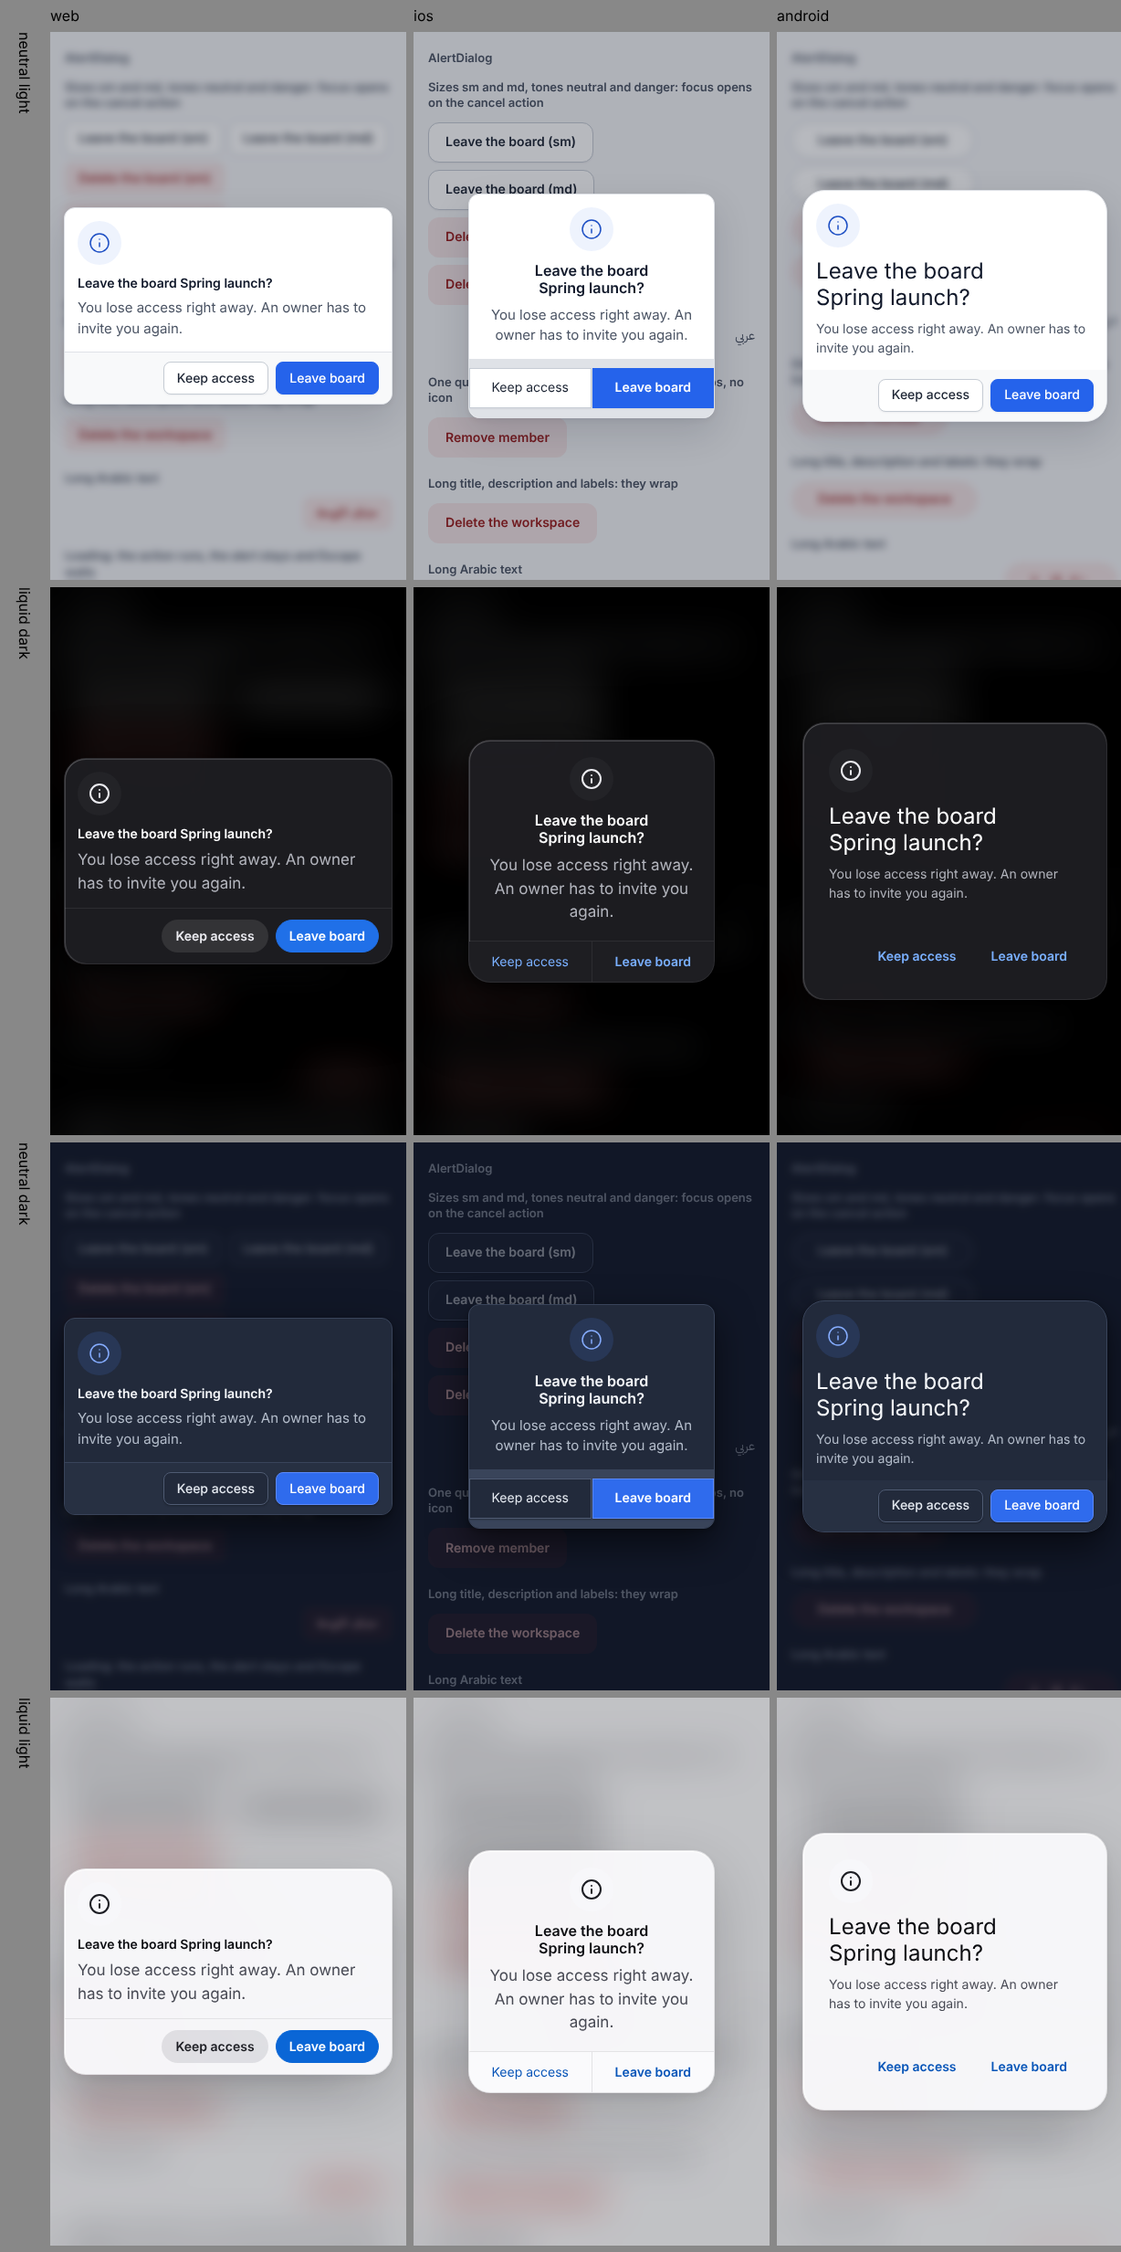
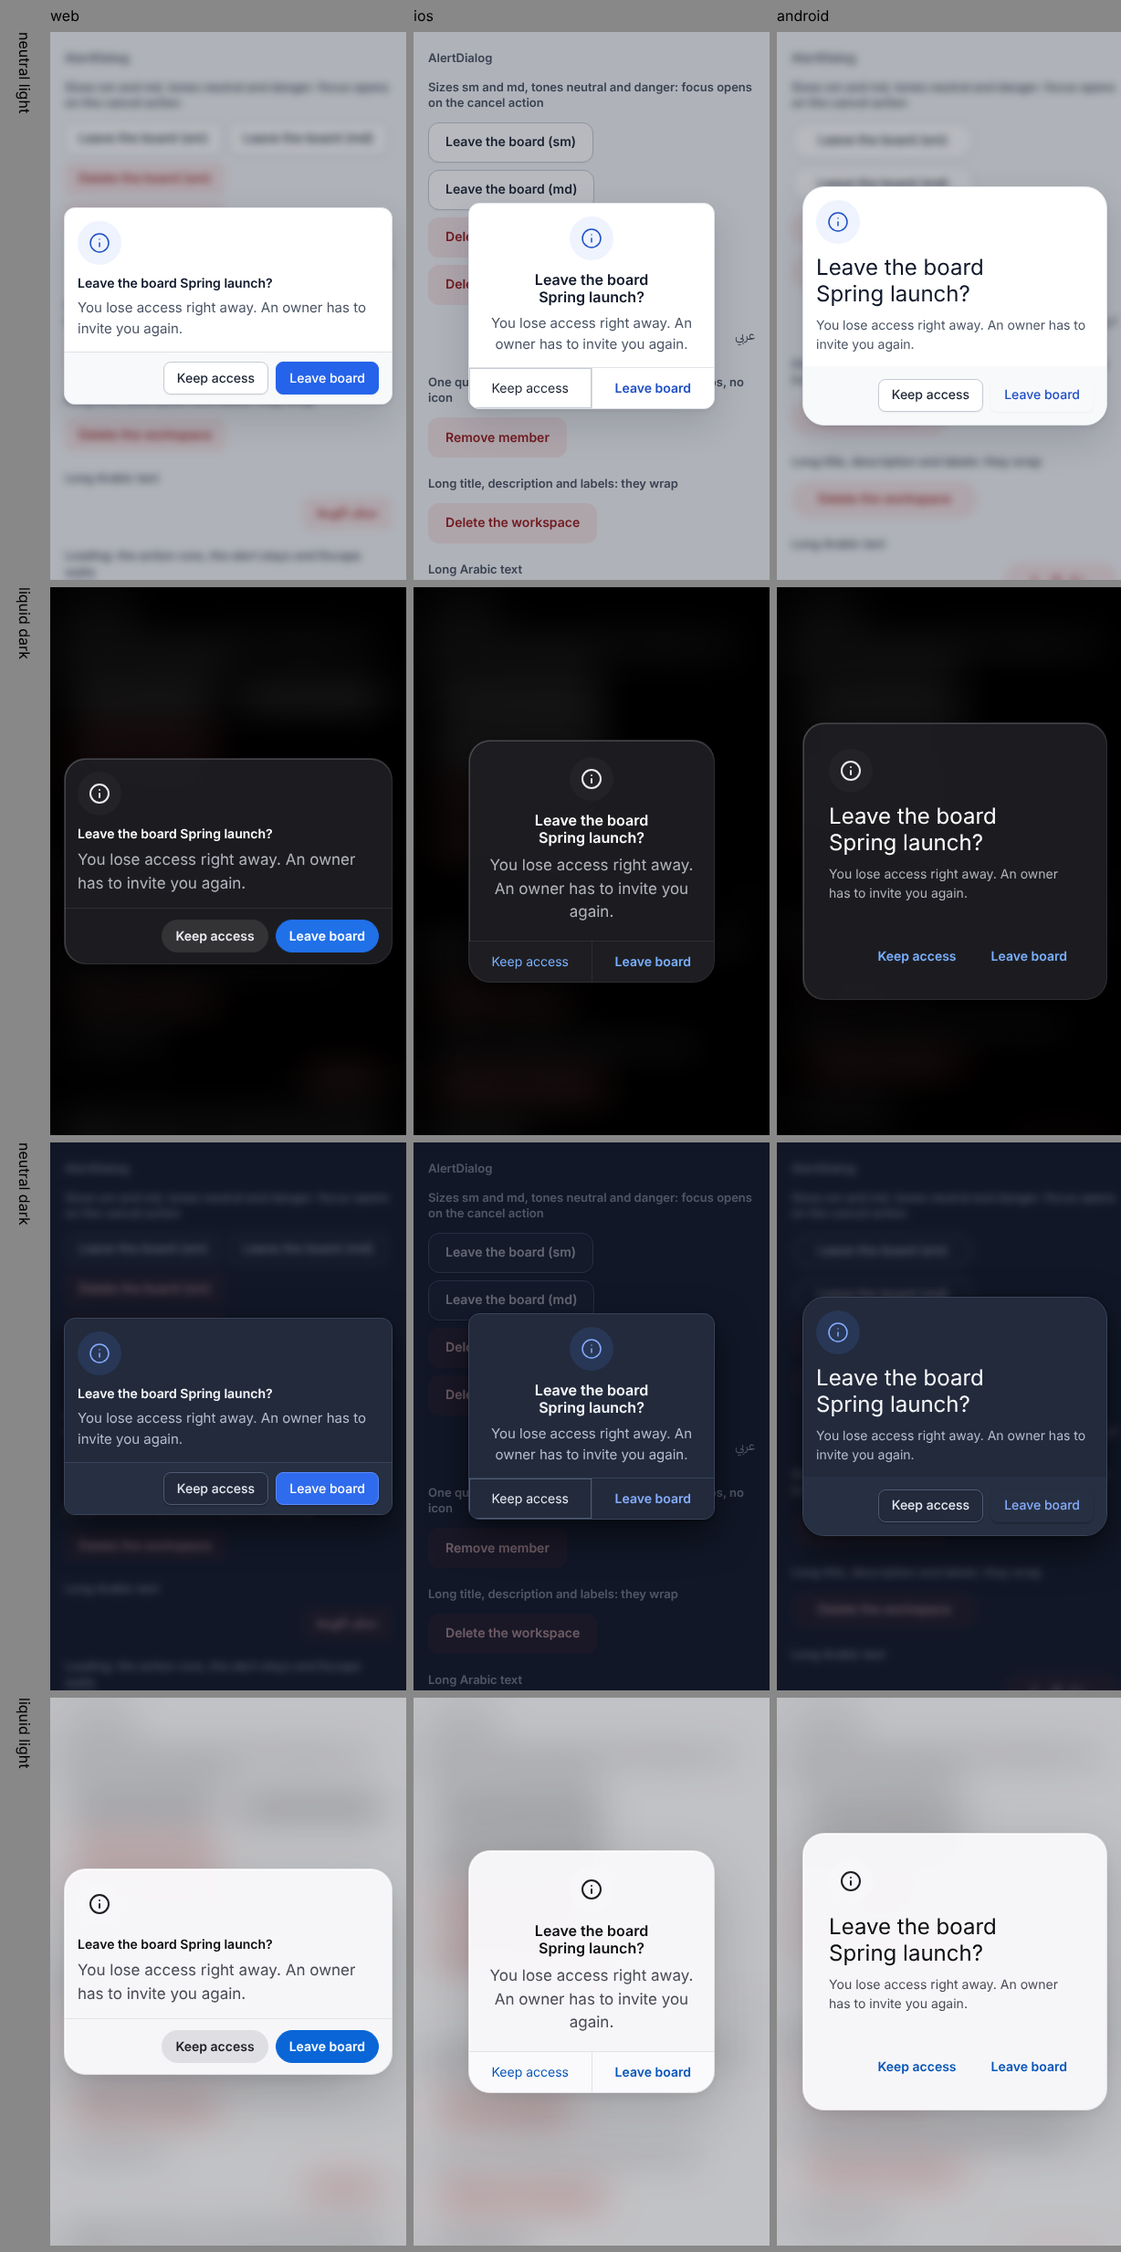
wo-1.28: hook wiring report and refreshed dialog sheets
Claude-Session: https://claude.ai/code/session_01ErLBsZAvcFqWeBUty3dBLn

diff --git a/docs/reports/hook-wiring.md b/docs/reports/hook-wiring.md
@@ -1,0 +1,252 @@
+# Hook wiring and looks apart (order 1.28)
+
+Status: **proposed**. Every look, motion and platform change below waits for
+the owner. Branch `claude/ds-order-1-28`, from `claude/relaxed-hypatia-7gseap`
+with the round 3 report merged.
+
+Order 1.23 added private properties and parts ("hooks") to the components
+while 1.24, 1.25 and 1.26 built the styles and platforms in parallel, so none
+of them could set those hooks. This order sets them in Studio, Desk, Neutral,
+Liquid, `ios` and `android`, removes the workarounds they replace, and pushes
+the four styles further apart. There is no Paper folder, so the sheets show
+four styles.
+
+## Verdict from the sheets
+
+- **Styles.** Shown one switch, one check, one toast or one dialog with no
+  label, each style can be named:
+  - Studio is flat black and white with square bits, inverted fills and 1px
+    rules.
+  - Desk is yellow, with glass balls, window lights and grain.
+  - Neutral is calm blue on a blue gray dark, with soft white cards.
+  - Liquid is glass: pure black dark, pill buttons, a longer capsule, a lens
+    thumb and a heavy frosted scrim.
+- **Motion.** The same press differs in kind, not only in length:
+  - Studio cuts in hard steps.
+  - Desk rolls a glass ball that turns into a lens and overshoots.
+  - Neutral moves quick and plain, critically damped.
+  - Liquid swells and stretches a clear lens on a soft spring.
+
+  See `sheets/switch-stretch.<style>.png`.
+- **Platforms.**
+  - `ios` has a centred compact alert with hairline split text actions, a
+    toast banner from the top, round checks, a dim on press and a lens while
+    the switch is held.
+  - `android` has a large start aligned title, text actions at the end, a
+    small switch dot that grows, ripples from the touch point, and full width
+    snackbars at the bottom.
+  - Neutral's `web` keeps its button footer and corner toast stack.
+- **Weakest pair.** Neutral and Liquid at rest in light: both have a blue
+  accent and a white thumb. The longer Liquid capsule, its pill buttons and
+  its glass scrim tell them apart; the press tells them apart at once. A
+  capsule shaped thumb would close it (see hooks still needed).
+
+## Hooks set
+
+| Area | Hooks set |
+| --- | --- |
+| Studio | Switch: `--_switch-sweep: 0`, `-lean: 0px`, `-thumb-shadow`, `-thumb-backdrop: none`, `-thumb-highlight: none`, `-track-press: 1`, `-border-color-hover`, `-thumb-off`; `-thumb-size-pressed` and `-stretch` on web. Checkbox: `-radius: 0`, `-stroke-width: 3`, step eases on `-ease`, `-fill-ease`, `-morph-ease`, `-land-ease`. RadioGroup: `-dot-travel: 0px`, step eases. RadioCard: `-radius: 0`, `-stroke-width: 3`, `-lift-ease`, `-draw-ease`. Buttons: `--_button-glow: 0`, `-glow-rest: 0`, `-press-shade: transparent`, `-press-y: 1px`, step `-press-ease`, `-release-ease`, `-result-ease`, `-draw-ease`; `--_toggle-button-flood: 0`. CopyButton: step `-ease-in`, `-ease-out`, `-pop-ease`, `-overshoot: 0px`, the bubble as an inverted chip. Toast: `--_toaster-gap: 1px`, `--_toast-peek`, `-depth: 0`, `-shadow-room: 0px`, `-stack-ease`, `-swipe-ease-out`, `-progress-thickness: 1px` (web). Dialog family: `--_dialog-backdrop-blur: 0px`, `-refuse-shift: 2px`, `-part-ease`. |
+| Desk | Switch: `--_switch-thumb-highlight` (a light spot that turns with the travel, mirrored in RTL), `-highlight-opacity`, `-highlight-opacity-pressed`, `-thumb-shadow` (light rim), `-thumb-backdrop`, `-thumb-solid-pressed: 0.45`, `-lean`, `-track-press`. Checkbox: `-stroke-width: 2.5`, bouncy `-fill-ease`, `-morph-ease`, `-land-ease`. RadioGroup and RadioCard: yellow fill, `-dot-travel`, `-draw-ease`. Buttons: `--_button-glow`, `-glow-rest`, `-glow-color`, `-glow-y`, `-press-y`, `-press-shade`, bouncy `-release-ease` and `-release-duration`; the rolled label keeps the press sink. CopyButton: `-turn`, `-overshoot`, yellow `-bubble-*`. Toast: `--_toaster-gap`, `--_toast-peek`, `-depth`, `-stack-duration`, `-stack-ease`, `-progress` (yellow), `-progress-thickness` (web). Dialog family: `--_dialog-backdrop-blur`, `-part-duration`, `-part-ease`, `-handle-color`. Menus, Select, ListBox, CommandPalette: highlight bg, `-item-shadow` (yellow start bar), `-highlight-duration`, `-highlight-ease`. |
+| Neutral | Switch: `--_switch-bg`, `-thumb-off`, `-on-fill`, `-thumb-shadow`, snappy (critically damped) `-duration`, `-ease`, `-duration-out`, `-ease-out`, `-track-press: 1`, `-lean: 0px`; `-stretch` and `-thumb-size-pressed` on web. Checkbox: `-stroke-width: 1.5`, ease out on fill, land and morph. RadioGroup: `-dot-travel: 0px`. RadioCard: `-lift: 0px`, `-stroke-width: 1.5`. Buttons: `--_button-glow: 0`, `-press-y: 1px`, `-press-shade: transparent`, snappy release, `-roll: 0px`; `--_toggle-button-flood: 0`; `--_split-button-drop-press`. CopyButton: a cross fade with the check drawn on ease out, `-overshoot: 0px`. Toast: `--_toast-peek`, `-depth`, `-progress`, `-progress-thickness` (web), `--_toaster-gap`. Dialog family: `--_dialog-refuse-shift`, `--_dialog-backdrop-blur` from `blur.backdrop`. Menus and lists: highlight in `primary.tint`. Popover and HoverCard: `-enter-stretch` equal to `-enter-scale`. |
+| Liquid | Buttons: `--_button-glow: 1`, `-glow-rest`, `-glow-color: var(--ds-color-glass-highlight)`, `-glow-x` (22%, 78% in RTL), `-glow-y`, soft `-release-ease`. Switch: `--_switch-thumb-shadow`, `-thumb-backdrop`, `-thumb-highlight` (the `thumb-lens` part, mirrored in RTL), `-thumb-highlight-opacity` (0.6 at rest, 1 held), `-thumb-solid-pressed: 0.2`, `-lean`, soft spring eases; on web `-thumb-size-pressed`, `-stretch` and a longer `--_switch-width`. Slider: `--_slider-thumb-bg`, `-halo`, `-halo-spread`, `-stretch`. SegmentedControl: `--_segmented-control-indicator-filter`. Toast: `--_toaster-gap`, `--_toast-peek`, `-depth`, soft `-stack-duration`, `-stack-ease`, `-duration-in`, `-ease-in`. Checkbox and RadioGroup: soft spring eases, `-stroke-width: 2.5`. Menus, Select, ListBox, CommandPalette: `-highlight-bg`, `-item-shadow`, `-highlight-ease`. Dialog family: `--_dialog-backdrop-blur` (blur.glass), `--_dialog-handle-radius`. Popover, HoverCard, Tooltip: `-enter-stretch`. |
+| ios | Buttons: `--_button-press-y: 0px`, `-press-shade: transparent`, `-glow: 0`; press is a dim. Switch: `--_switch-thumb-shadow`, `-thumb-size-pressed: 1`, `-thumb-solid-pressed: 0.2`, `-thumb-backdrop`, `-thumb-highlight`, `-highlight-opacity` and its pressed value, `-lean: 0px`. Checkbox: pill radius everywhere, `-stroke-width: 2.5`, spring eases. RadioGroup: `-dot-travel: 0px`, spring eases. Toaster: `--_toaster-dir: 1`, `--_toaster-align: start`. Toast: `-peek`, bouncy `-stack-duration` and `-stack-ease`, `-progress-thickness: 0px`. Dialog and AlertDialog: `-enter-scale`, `-duration-in`, `-ease-in`. Sheet: `--_dialog-handle-color`, `-handle-radius`. Family: `--_dialog-backdrop-blur: 0px`. Menus and Select: `--_menu-clip-from`, quiet highlight, tinted check. Popover and Tooltip: `-enter-stretch`. SegmentedControl: `-indicator-filter`. |
+| android | Buttons and FAB: `--_button-glow: 0`, `-glow-rest: 0`, `-press-shade: transparent`, `-press-y: 0px`; the ripple is a `clip-path` circle at `var(--_button-ripple-x) var(--_button-ripple-y)`, mirrored in RTL. ToggleButton: `-layer-opacity: 0`, `-flood: 0`. Chip, List, Pagination: ripples from their `-press-x` and `-press-y`. Switch: `-thumb-size-rest: calc(16 / 28)`, `-on: calc(24 / 28)`, `-pressed: 1`, `-stretch: 1`, `-lean: 0px`, `-inset`, `-thumb-size`, `-travel-max`, `-thumb-icon-opacity: 1`, emphasized eases. Checkbox and RadioGroup: `-press-scale: 1`, emphasized eases, a 40dp state layer. Field: `--_field-float-box`, `-float-inset`; Input `data-variant='outlined'`. Toaster and Toast: `--_toaster-dir: -1`, `-align: end`, `-gap`, `--_toast-stack-transform`, `-strip`, `-stack-ease`, `-swipe-ease-out`, `-progress-thickness: 0px`. Menus, Select, ListBox, CommandPalette: `primary-tint` highlight on the standard ease. Sheet: `--_dialog-handle-radius`. |
+
+### Platform shape against style recipes
+
+The platforms sit in `ds.platform`, below `ds.recipes`, so a recipe that sets
+a shape hook beats the platform. The fix in this order: the style recipes set
+these only under `[data-style='<id>'][data-platform='web']`:
+- the switch press shape (`--_switch-stretch`, `--_switch-thumb-size-pressed`,
+  Liquid's `--_switch-width`)
+- the toast timer line (`--_toast-progress-thickness`)
+- the dialog footer and its buttons
+
+The platform's switch press, timer line and alert actions now hold in every
+style. A secondary footer button keeps its own border on ios and android,
+because that comes from the Button's emphasis, not the dialog.
+
+## Workarounds removed
+
+- Liquid Button: its own `::before` specular sheen block, replaced by the
+  glow hook.
+- Liquid Switch: the direct thumb `box-shadow`, the `backdrop-filter` and the
+  `:active` `--_switch-thumb-bg` swap.
+- Liquid Slider: the direct thumb background and the redone forced colors
+  thumb rules.
+- Liquid SegmentedControl: the direct `backdrop-filter`.
+- Liquid Toast: the direct `gap` and the forced drop from above.
+- Liquid menus, Select, ListBox and CommandPalette: the row `::after`
+  box-shadow, the row lift transforms and their transitions; three direct
+  `--_menu-duration-in` lines.
+- Desk Toast: the toaster's `gap: 0` and the negative margins.
+- Desk Dialog: the direct `--_dialog-scrim-filter` and the scrim override.
+- Neutral Dialog and CommandPalette: the `scrim-filter: none` lines.
+- Studio Toast: the raw toaster gap. Studio Button: the xs pill rule.
+- `ios.css`:
+  - the `ds-ios-alert-in` keyframes
+  - the `::before` grabber on the Sheet handle
+  - the toast `--_toast-enter-y` and the sheet open `:has()` rule
+  - the direct thumb shadow
+- `android.css`:
+  - the switch thumb `transform` scale trick, `--_switch-stretch-now` and
+    `padding-inline: 0`
+  - the handle `::before` bar
+  - the ripple grown by `transform: scale`
+- **Durations (round 3 item 11).**
+  - No raw or computed duration is left in any style folder or platform
+    file.
+  - Found and fixed: two in `ios.css` (computed button transitions) and
+    three in `android.css` (`0s` transitions, now token durations with
+    `step-end` or `step-start`).
+- **Generated interaction recipes (item 10).**
+  - `packages/styles/motion-css.ts` writes `<id>/recipes/Motion.css` from
+    each `motion.ts`, and a test fails when one is stale.
+  - The file is in `recipes/` and not at `<id>/motion.css`, because the
+    vocabulary gate allows private properties only in component CSS and
+    recipes.
+  - The generated `index.css` imports every recipe, so
+    `scripts/gen-index.ts` needed no change.
+- **`window-settle` (item 12).**
+  - Studio windows now grow, zoom and minimize. The pattern rows name the
+    stepped `ease.spring-bouncy`, but `animateWindow` ignores a preset's
+    easing, so today they move on the smooth `ease.window` curve (see
+    changes needed from the lead).
+  - Neutral windows settle with a small scale.
+
+## Look changes (Task 2)
+
+- **Studio.**
+  - Colours: dark is near black surfaces with bright rules; light is a white
+    body with dark rules.
+  - Shape: panels and overlays are square; controls are 2px.
+  - Overlays: every overlay is framed by a 1px rule in the text colour, and
+    dialog actions are square cells split by rules, the main one inverted.
+  - Switch: a flat bit with an inverted fill.
+  - Checkbox and radio: square, with thick square checks.
+  - Press: the neutral button inverts and the primary turns into its own
+    outline.
+  - Toasts: stack as hard rules.
+- **Desk.**
+  - Switch: a glass ball thumb on the yellow track; it turns into a clear lens
+    when held.
+  - Overlays: yellow glass title bars on dialogs and the AlertDialog band, a
+    yellow top edge on popovers, and a yellow glass marker on menu rows.
+  - Toasts: overlapping glass cards with a yellow timer.
+- **Neutral.**
+  - Dark: a true blue gray (page #1b2232, surfaces #222a3b to #455168,
+    borders #2a3345 to #4f5b73), with a navy scrim and a 4px backdrop blur.
+  - Contrast fixes this needed: a lighter primary edge (#5b89f9), focus ring
+    #82abff and danger text #fc8b8b.
+  - Toasts: white cards with a tinted icon disc and a thin timer.
+- **Liquid.**
+  - Switch: a clear lens that swells and stretches; a longer capsule on the
+    web, and a standing sheen at rest.
+  - Lists and stacks: a lens that glides between menu rows, and toasts that
+    pool into one stack.
+  - Overlays: a 20px frosted scrim, and popovers that unfold from the trigger.
+
+## Sheets and clips
+
+All under `docs/reports/shots/hook-wiring/`:
+
+| What | Before | After |
+| --- | --- | --- |
+| Styles in a row (dark and light), per component | `sheets/before/<component>.styles.png` | `sheets/after/<component>.styles.png` |
+| web, ios and android in a row (Neutral and Liquid, both schemes), per component | `sheets/before/<component>.platforms.png` | `sheets/after/<component>.platforms.png` |
+| Motion frames per style | | `sheets/switch-stretch.<style>.png`, `sheets/check-draw.<style>.png`, `sheets/copy-swap.<style>.png` |
+| Clips per style | | `clips/toggles.<style>.webm` (switch and check), `clips/actions.<style>.webm` (copy) |
+
+- **Components:** switch, checkbox, radio-group, button, copy-button, toast,
+  dialog, alert-dialog, sheet, select (open), dropdown-menu (open), tabs,
+  segmented-control.
+- **How the before set was taken:** from a clean worktree of the pre-order
+  code on its own server, so no work in progress leaked into it.
+- **Scripts:**
+  - `capture.cjs` takes the stills.
+  - `record.cjs`, a copy of the round 3 recorder, takes the clips. It reads
+    the round 3 drives and also stitches a filtered set.
+
+## Contrast and gates
+
+`ds style check` passes for every style:
+
+| Style | Contract | Contrast pairs | Known failures |
+| --- | --- | --- | --- |
+| Studio | 764 | 602 | 0 |
+| Desk | 764 | 602 | 4 (recorded before this order, none added) |
+| Neutral | 764 | 602 | 0 |
+| Liquid | 764 | 798 (brightest and darkest backdrop) | 0 |
+
+- `npm run check` passed before each commit.
+- Token snapshots changed for Studio and Neutral values, and the CLI style
+  list snapshot changed for Studio's `proposedSchemes`.
+- `preset.test.ts` now expects Studio windows to settle in steps (item 12).
+- Forced colors keeps every existing fallback. Every `backdrop-filter` set
+  here goes through a component hook, which drops it without support, under
+  reduced transparency and under more contrast.
+- Reduced motion: the styles reset the values they set in their own reduced
+  blocks, under both the media query and `data-motion`.
+- The contract suite was not rerun as its own command for the changed
+  components. The full check covers the unit and gate tests only.
+
+## Hooks still needed
+
+| Component | Exact hook | For |
+| --- | --- | --- |
+| Switch | `--_switch-thumb-width` apart from `--_switch-thumb-size` | A capsule lens thumb in Liquid and on ios; the clearest split from Neutral at rest |
+| Switch | `--_switch-radius`, `--_switch-thumb-radius` | Studio's square bit; today the recipe sets `border-radius` and `clip-path: none` on the parts |
+| RadioGroup, RadioCard | `--_radio-group-radius`, `--_radio-group-dot-radius`, `--_radio-card-indicator-radius` | Studio's square radio without part rules |
+| Toast | `--_toast-columns`, `--_toast-areas` | Studio's one line strip; `--_toast-strip` is a clip value, so the grid template is still set directly |
+| Toast | `--_toast-edge-width` | Desk's 3px tone edge without an inset shadow |
+| Dialog | `--_dialog-scrim-saturate` | Desk's scrim saturation, lost when it moved to the blur hook |
+| AlertDialog, Sheet, Popover | `optionalParts['alert-dialog']` and a `titlebar` part with `controls` | Desk's real title bars with lights; drawn by recipe today |
+| Sheet | `detents`, `data-detent`, `--_dialog-detent-height`, a rubber band into `--_dialog-drag-y` | ios detents; a bouncy enter is the nearest thing |
+| Sheet | `--_dialog-enter-scale` honoured by Sheet | The android 0.92 scale; the sheet slides only |
+| Drawer | Swipe to dismiss with the handle part | ios drawer from the bottom |
+| Navbar | `largeTitle` part and `data-scrolled` | The ios large title |
+| TabBar | The press point relative to the pill | The android ripple inside the pill; it is centred today |
+| Platform layer | Shape hooks the platform owns, or a layer above recipes for them | So a style does not need `[data-platform='web']` scoping on press shapes |
+| Window | `animateWindow` (`packages/motion/src/window.ts`) should pass the preset's `easing` | Studio windows move on the stepped `ease.spring-bouncy` their pattern rows name; today they use `ease.window` |
+| Window | A Neutral row in React `Window/styleMotion.ts` (`[neutral.id]: neutral.window`) | React windows in Neutral still fade |
+| Tokens | Zero `--ds-duration-*` under `data-motion='reduce'` as under the media query | Today only the media query zeroes tokens |
+
+## What the owner must approve
+
+All looks stay **proposed**:
+- **Studio:** both schemes, now `proposedSchemes: ["dark", "light"]`; square
+  radios; windows that move in steps.
+- **Desk:** yellow glass title bars, the menu marker and the glass ball switch.
+  Desk light stays proposed.
+- **Neutral:** the blue gray dark palette, the 4px scrim blur, windows that
+  settle, and the tinted highlight row.
+- **Liquid:** the 20px modal blur, the 0.2 pressed thumb, the longer capsule
+  and the standing sheen.
+- **ios:**
+  - no backdrop blur on overlays
+  - no toast timer line
+  - round checkboxes everywhere
+  - a clear lens while the switch is held
+- **android:**
+  - filled fields unless `outlined` is set
+  - snackbars that never stack
+  - a tonal menu highlight
+  - under reduced motion the switch dot changes size on press, but jumps
+    instead of growing
+
+## Changes needed from the lead
+
+1. Remove the gallery's own injection of `interactionRecipes` in
+   `apps/gallery-react/src/Interactions.tsx`. Each style's
+   `recipes/Motion.css` now carries them, so the injection duplicates them.
+2. Add Neutral to React `Window/styleMotion.ts`, and pass the preset easing
+   through `animateWindow`.
+3. Decide the layer for platform shape hooks (see the last rows of hooks
+   still needed). Until then, recipes scope press shapes, timer lines and
+   dialog footers to `[data-platform='web']`. Write that rule into
+   `docs/contracts/style-pack.md`.
+4. Token build: zero duration tokens under `data-motion='reduce'` too.
+5. Allow `steps()` in `ease.window` in the contract, if Studio's window settle
+   should not depend on pattern rows.
+6. Redeploy the docs site so the owner can compare the looks and platforms on
+   a phone.
